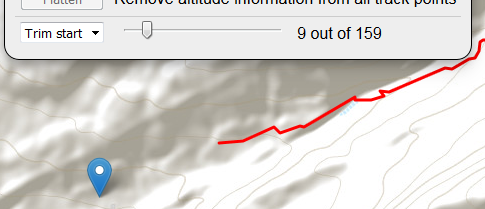
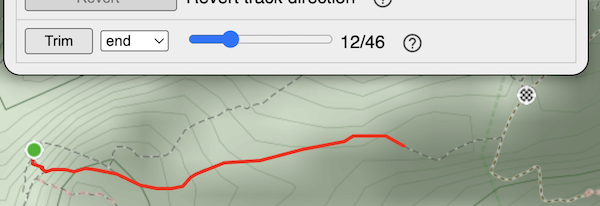
update "Trim" doc

diff --git a/doc/index.html b/doc/index.html
@@ -294,9 +294,11 @@
 
         <h3>Trim</h3>
         <p>Trimming is an easy way to quickly delete track points at the
-          beginning or at the end of your track. Select which end of the track
+          beginning or at the end of your track. Select which extremity of the track
           you want to trim, then use the slider to define the number of points
-          to remove. The map shows the result in real-time.</p>
+          to delete. The map shows the result in real-time. Click the "Trim"
+          button to finalize.
+        </p>
         <p><img src="images/trim.png" alt="trim" /></p>
 
       </div>

diff --git a/js/wtracks.js b/js/wtracks.js
@@ -986,6 +986,7 @@ $(function () {
   function cancelTrim() {
     $("#trim-range").val(0);
     trimTrack();
+    polytrim = undefined;
   }
 
   function finishTrim() {
